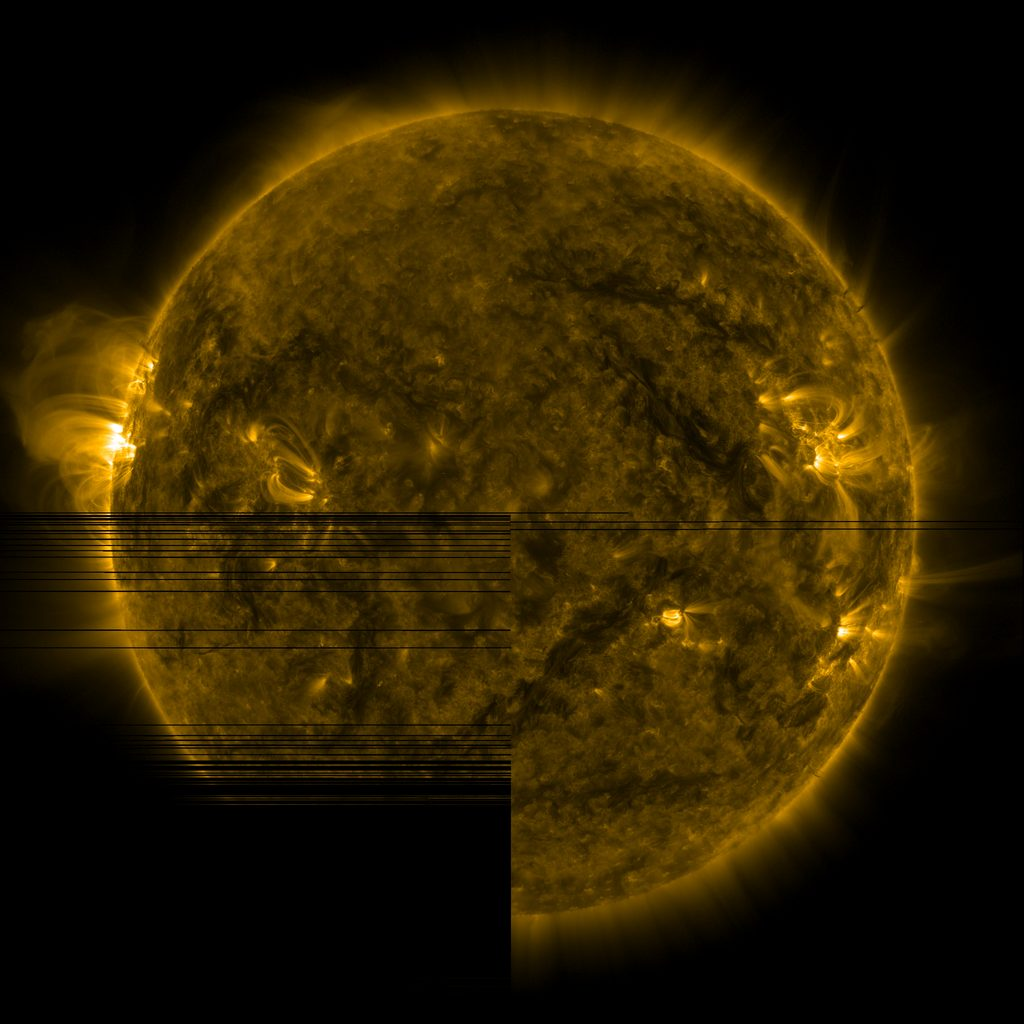
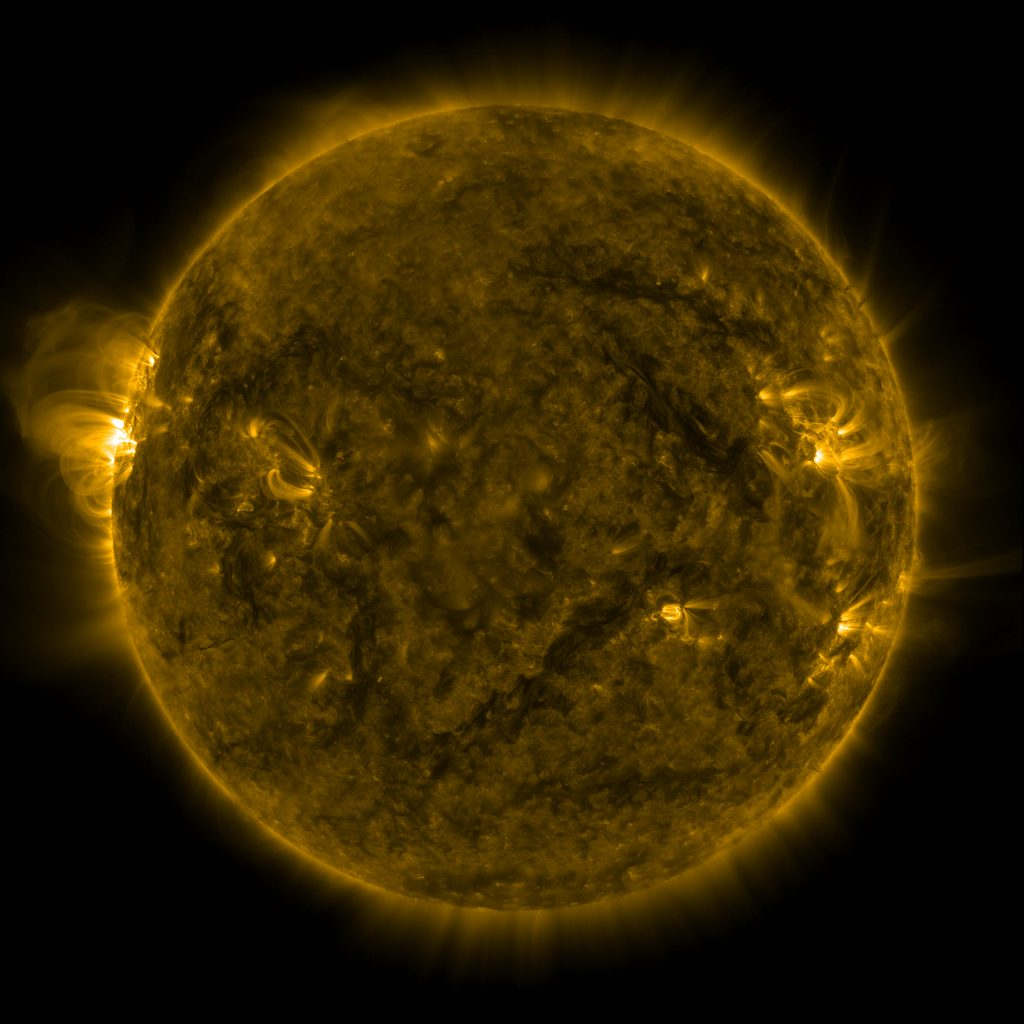
Reject dropout AIA plates and replace the Sept 30 17Z cut.

diff --git a/index.html b/index.html
@@ -64,8 +64,8 @@
   <link rel="icon" type="image/png" sizes="32x32" href="favicon-32.png?v=172" />
   <link rel="icon" type="image/png" sizes="192x192" href="icon-192.png?v=172" />
   <link rel="icon" href="favicon.ico?v=172" sizes="32x32" />
-  <link rel="preload" href="carrington-171-poster.jpg?v=91" as="image" type="image/jpeg" />
-  <link rel="preload" href="frames.json?v=91" as="fetch" crossorigin />
+  <link rel="preload" href="carrington-171-poster.jpg?v=92" as="image" type="image/jpeg" />
+  <link rel="preload" href="frames.json?v=92" as="fetch" crossorigin />
   <link rel="preconnect" href="https://fonts.googleapis.com" />
   <link rel="preconnect" href="https://fonts.gstatic.com" crossorigin />
   <link href="https://fonts.googleapis.com/css2?family=Inter:wght@400;500;600;700&family=Michroma&display=swap" rel="stylesheet" />
@@ -916,7 +916,7 @@
   </div>
 
   <header class="chrome">
-    <p class="build-mark" id="build-mark">c91 j91</p>
+    <p class="build-mark" id="build-mark">c92 j92</p>
     <h1 class="app-title">SuperSun</h1>
   </header>
 
@@ -1036,7 +1036,7 @@
 
   <script src="astronomy.js"></script>
   <script type="module">
-    import { createSunGlobe } from "./sun.js?v=91";
+    import { createSunGlobe } from "./sun.js?v=92";
 
     const STORAGE_KEY = "sun-globe-loc-v1";
     const DEFAULT_LOC = { lat: 35.5956, lon: -82.5519, name: "Asheville, NC" };

diff --git a/sun.js b/sun.js
@@ -120,9 +120,9 @@ function createStarfield() {
 
 /** Full-disk AIA 171 loop — JPEG frames (snappy scrub) on the starfield. */
 const MOVIE = {
-  meta: "frames.json?v=91",
-  poster: "carrington-171-poster.jpg?v=91",
-  frameUrl: (i) => `frames/${String(i).padStart(4, "0")}.jpg?v=91`,
+  meta: "frames.json?v=92",
+  poster: "carrington-171-poster.jpg?v=92",
+  frameUrl: (i) => `frames/${String(i).padStart(4, "0")}.jpg?v=92`,
   /** World size of the square AIA plate; home fits this to the screen. */
   plane: 2.35,
   /** Plate brightness (toneMapped is off, so gain lives here). */

diff --git a/scripts/build-171-movie.py b/scripts/build-171-movie.py
@@ -94,7 +94,7 @@ def frame_times() -> list[datetime]:
 
 
 def is_good_frame(path: Path) -> bool:
-    """Reject dark/eclipse, blank, washed-out, or off-center junk."""
+    """Reject dark/eclipse, blank, washed-out, dropout lines, or off-center junk."""
     try:
         im = Image.open(path).convert("L")
     except Exception:
@@ -124,6 +124,24 @@ def is_good_frame(path: Path) -> bool:
     # Too little lit area (empty) or whole frame lit (bad stretch / artifact).
     if lit < 0.06 or lit > 0.85:
         return False
+    # Horizontal dropout / missing scan lines (e.g. 2026-09-30 17:00Z).
+    streak = float(np.std(np.diff(arr.mean(axis=1))))
+    if streak > 0.55:
+        return False
+    # Hole in the disk (black block from a bad Helioviewer cut).
+    if float((disk < 8.0).mean()) > 0.02:
+        return False
+    y0, y1 = int(0.5 * h), int(0.85 * h)
+    x0, x1 = int(0.15 * w), int(0.55 * w)
+    if float((arr[y0:y1, x0:x1] < 8.0).mean()) > 0.12:
+        return False
+    # Severe registration shift — mild AIA drift (~2% of height) is normal.
+    wgt = np.clip(arr - 20.0, 0.0, None)
+    wsum = float(wgt.sum())
+    if wsum > 0:
+        bright_cy = float((yy * wgt).sum() / wsum)
+        if abs(bright_cy - cy) > 0.04 * h:
+            return False
     return True
 
 
